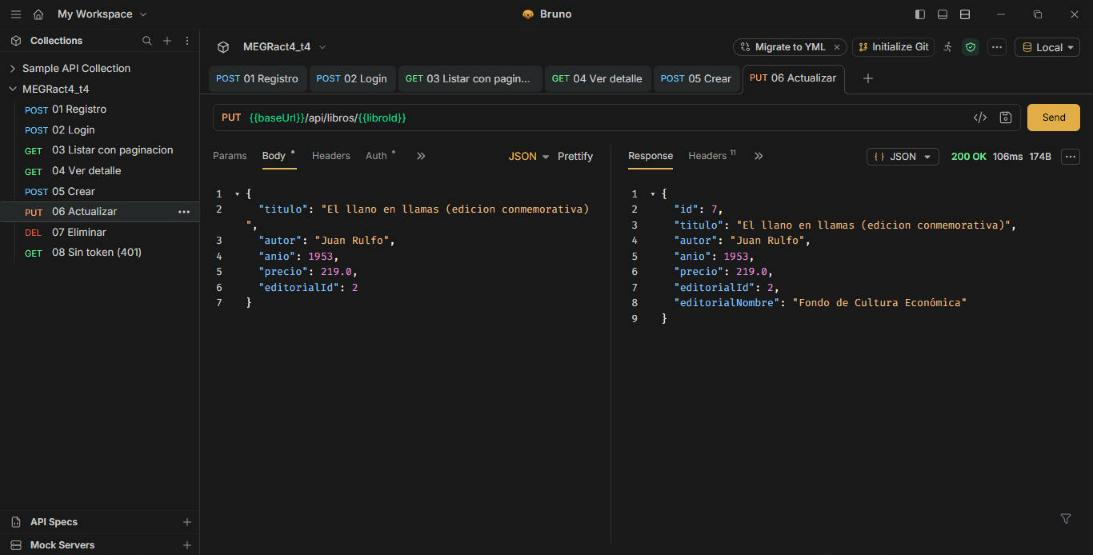
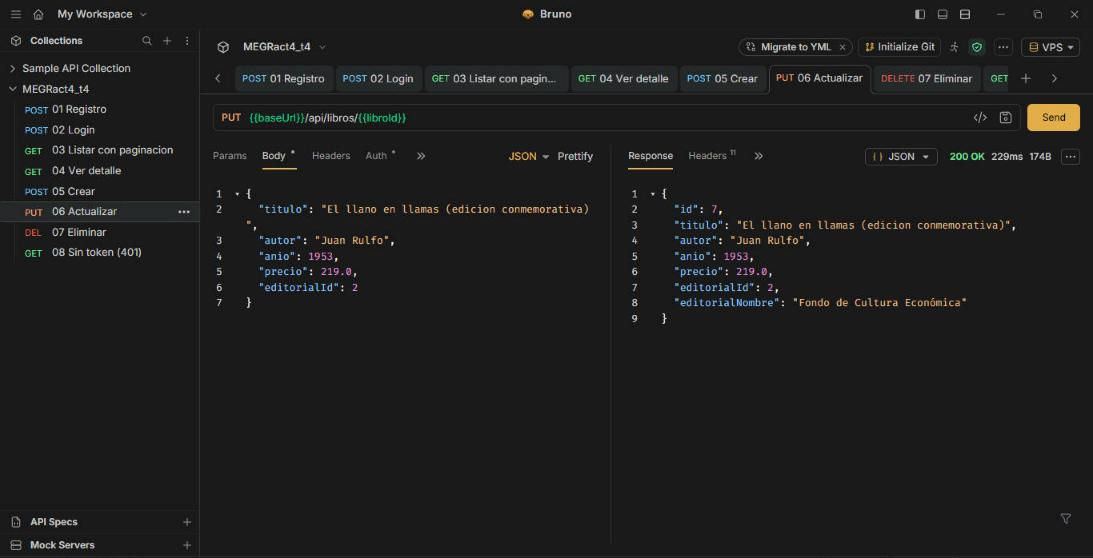
Actividad 4: pruebas en el VPS

diff --git a/README.md b/README.md
@@ -69,6 +69,8 @@ Abrir la carpeta [`bruno/`](bruno) en Bruno (**Open Collection**) y elegir el en
 
 ## Capturas de pantalla
 
+Pruebas ejecutadas en Bruno contra la API desplegada en el VPS (entorno **VPS**, `http://216.238.94.85:8087`).
+
 ### Registro de usuario
 ![Registro](docs/img/01_registro.png)
 
